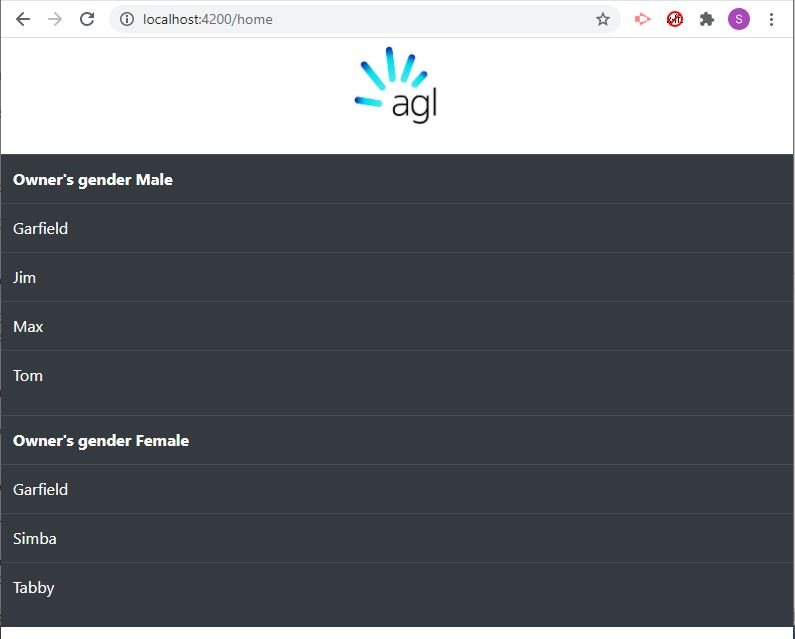
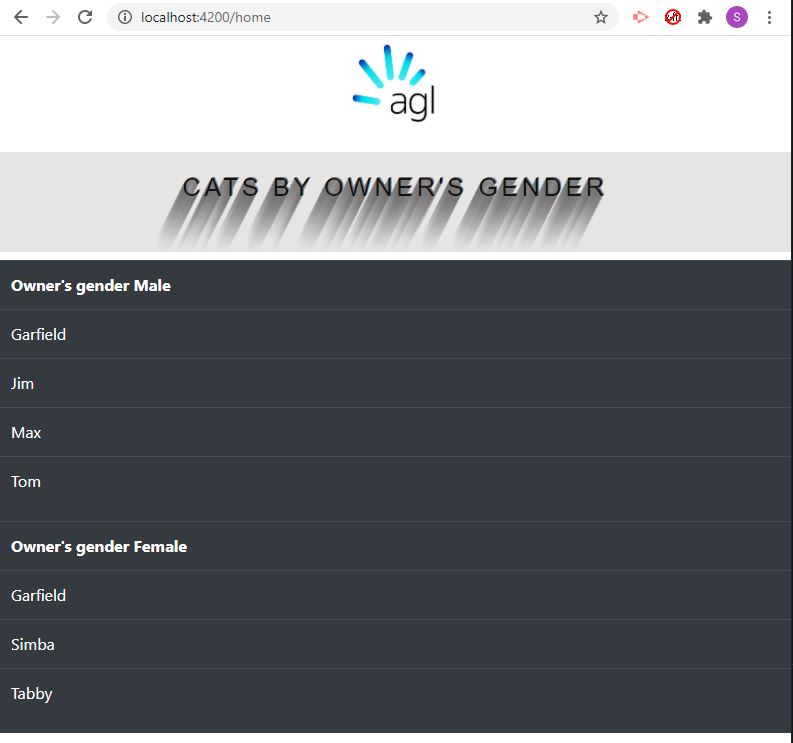
added styled header to page.

diff --git a/agl-ui/src/app/components/agl-pets/agl-pets.component.scss b/agl-ui/src/app/components/agl-pets/agl-pets.component.scss
@@ -1,0 +1,44 @@
+h1 {
+    font-family: "Avant Garde", Avantgarde, "Century Gothic", CenturyGothic, "AppleGothic", sans-serif;
+    font-size: 25px;
+    padding: 20px 10px;
+    text-align: center;
+    text-transform: uppercase;
+    text-rendering: optimizeLegibility;
+    
+    &.elegantshadow {
+      color: #131313;
+      background-color: #e7e5e4;
+      letter-spacing: .15em;
+      text-shadow: 
+        1px -1px 0 #767676, 
+        -1px 2px 1px #737272, 
+        -2px 4px 1px #767474, 
+        -3px 6px 1px #787777, 
+        -4px 8px 1px #7b7a7a, 
+        -5px 10px 1px #7f7d7d, 
+        -6px 12px 1px #828181, 
+        -7px 14px 1px #868585, 
+        -8px 16px 1px #8b8a89, 
+        -9px 18px 1px #8f8e8d, 
+        -10px 20px 1px #949392, 
+        -11px 22px 1px #999897, 
+        -12px 24px 1px #9e9c9c, 
+        -13px 26px 1px #a3a1a1, 
+        -14px 28px 1px #a8a6a6, 
+        -15px 30px 1px #adabab, 
+        -16px 32px 1px #b2b1b0, 
+        -17px 34px 1px #b7b6b5, 
+        -18px 36px 1px #bcbbba, 
+        -19px 38px 1px #c1bfbf, 
+        -20px 40px 1px #c6c4c4, 
+        -21px 42px 1px #cbc9c8, 
+        -22px 44px 1px #cfcdcd, 
+        -23px 46px 1px #d4d2d1, 
+        -24px 48px 1px #d8d6d5, 
+        -25px 50px 1px #dbdad9, 
+        -26px 52px 1px #dfdddc, 
+        -27px 54px 1px #e2e0df, 
+        -28px 56px 1px #e4e3e2;
+    }
+  }

diff --git a/agl-ui/src/app/components/agl-pets/agl-pets.component.html b/agl-ui/src/app/components/agl-pets/agl-pets.component.html
@@ -1,3 +1,5 @@
+<h1 style="height: 100px;" class="elegantshadow">Cats by Owner's gender</h1>
+
 <div class="panel panel-primary" style="text-align:center">    
   <div class="panel-body">
       <div class="form-group" style="text-align:left;">                                                                  

diff --git a/agl-ui/src/styles.scss b/agl-ui/src/styles.scss
@@ -1,1 +1,5 @@
 /* You can add global styles to this file, and also import other style files */
+
+.aligncenter {
+    text-align: center;
+}
